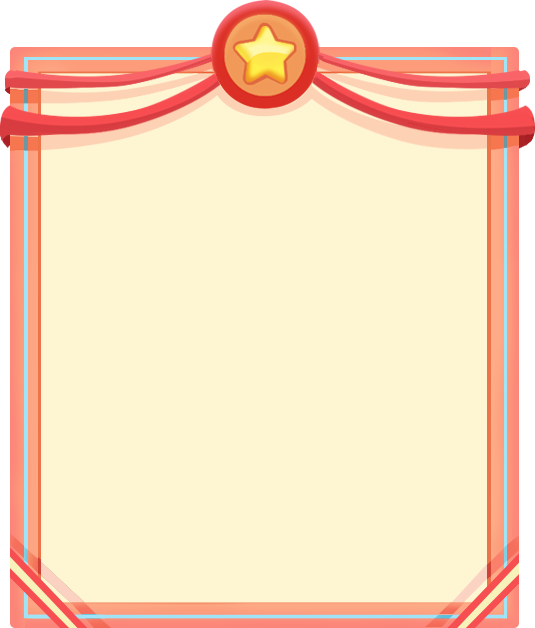
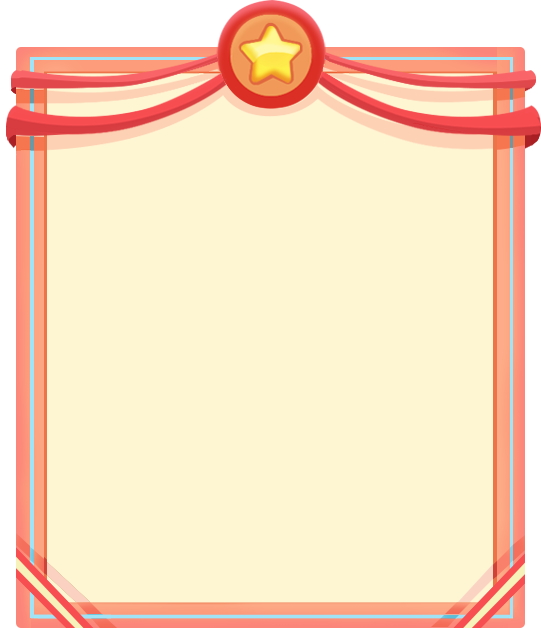
fix(all): 解决图片没居中的问题

diff --git a/src/pages/RankList.tsx b/src/pages/RankList.tsx
@@ -71,7 +71,7 @@ const Card = styled.div`
   background-size: cover;
   background-image: url("${RankListCardPng}");
   height: 882px;
-  width: 670px;
+  width: 678px;
   margin: 11px auto 0 auto;
 `;
 
@@ -118,8 +118,6 @@ const CommonIcon = styled.div`
 `;
 
 const SwiperWrapper = styled.div`
-  //height: 540px;
-  //overflow: hidden;
   width: 560px;
   margin: 0 auto;
   overflow-y: auto;

diff --git a/src/pages/Choose.tsx b/src/pages/Choose.tsx
@@ -40,7 +40,7 @@ const Card = styled.div`
   background-image: url(${ChooseCard});
   background-size: cover;
   height: 948px;
-  width: 667px;
+  width: 669px;
   margin: 0 auto;
   & > div {
     padding: 300px 100px 0 100px;

diff --git a/src/component/BaseConfirmBack.tsx b/src/component/BaseConfirmBack.tsx
@@ -14,7 +14,7 @@ const Card = styled(animated.div)`
   background-image: url("${BaseCardPng}");
   background-size: cover;
   height: 628px;
-  width: 535px;
+  width: 541px;
   font-family: LeZhen, sans-serif;
 `;
 
